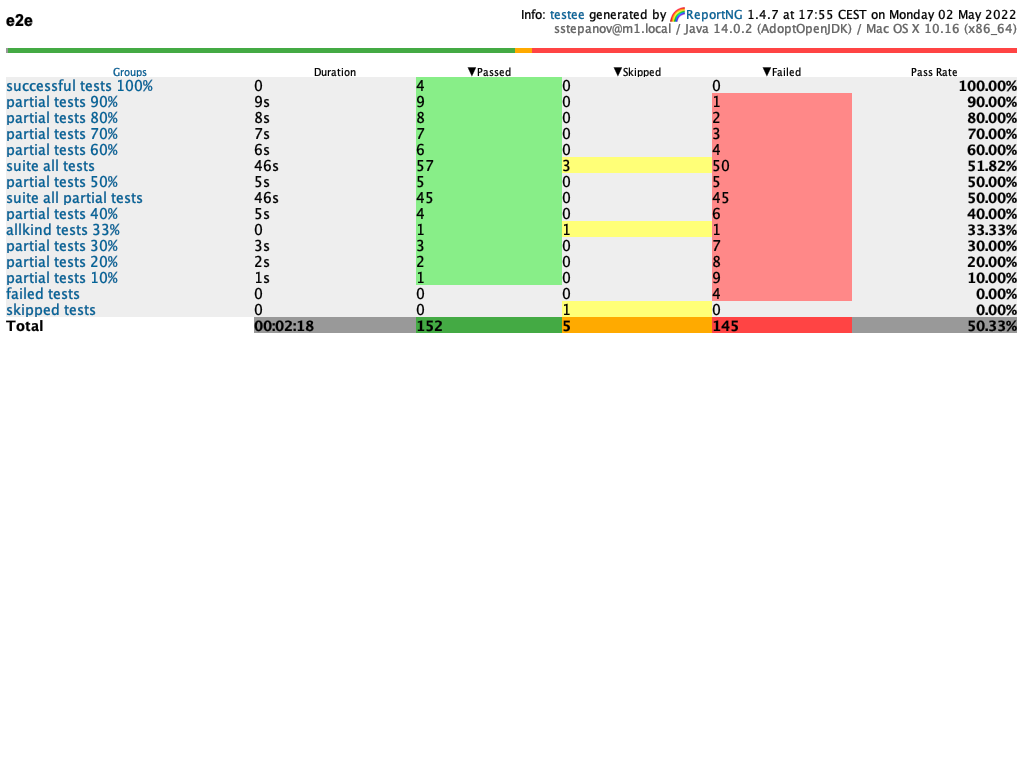
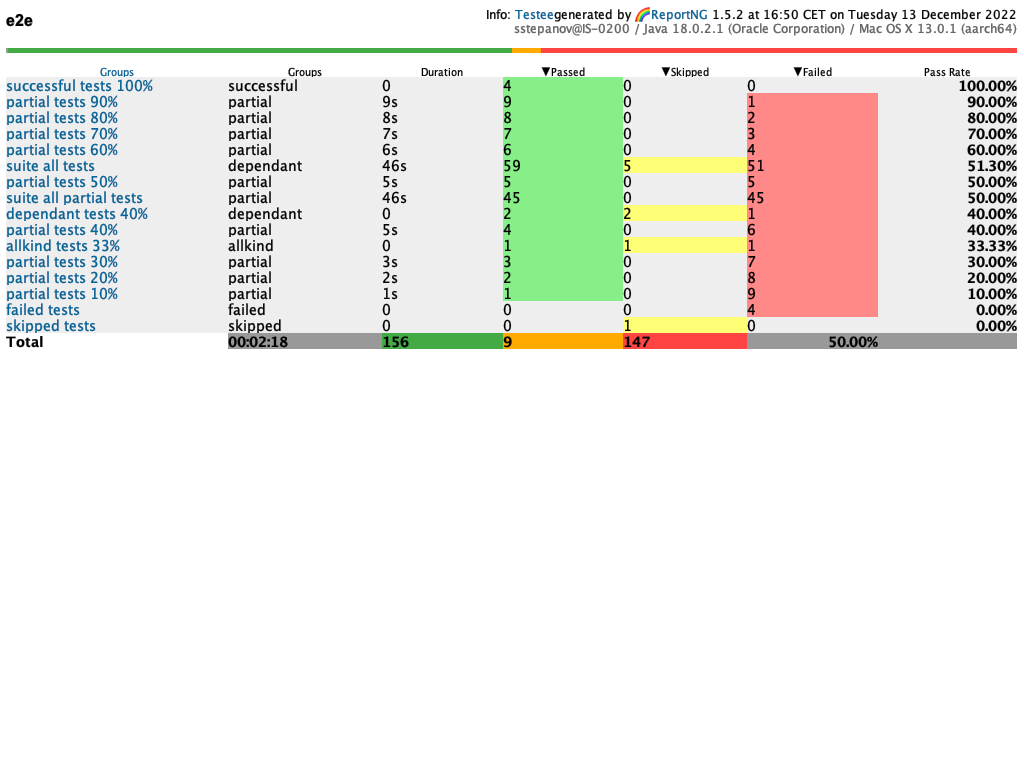
Changes in version 1.5.2 ------------------------ * Added group column on overview table * Kotlin 1.7.21

diff --git a/src/main/kotlin/testee/it/reportng/HTMLToBase64.kt b/src/main/kotlin/testee/it/reportng/HTMLToBase64.kt
@@ -135,7 +135,7 @@ object HTMLToBase64 {
         return styleSheet
     }
 
-    var HTML_EXAMPLE = """<html xmlns="http://www.w3.org/1999/xhtml" xml:lang="" lang="">
+    var HTML_EXAMPLE = """<html xmlns="http://www.w3.org/1999/xhtml" xml:lang="en" lang="en">
 <head>
     <title>e2e</title>
     <meta http-equiv="Content-Type" content="text/html;charset=utf-8"/>
@@ -147,16 +147,16 @@ object HTMLToBase64 {
 <table class="titleTable">
     <tr>
         <td class="h1">e2e</td>
-        <td id="meta">Info: <a href=https://github.com/hibissscus/testee target="_top">Testee</a> generated by &#127752;<a href="https://github.com/hibissscus/reportng" target="_top">ReportNG</a> 1.4.7 at 17:55 CEST on Monday 02 May 2022<br/><span id="systemInfo">sstepanov@m1.local&nbsp;/&nbsp;Java 14.0.2 (AdoptOpenJDK)&nbsp;/&nbsp;Mac OS X 10.16 (x86_64)</span></td>
+        <td id="meta">Info: <a href=https://github.com/hibissscus/testee target="_top">Testee</a>generated by &#127752;<a href="https://github.com/hibissscus/reportng" target="_top">ReportNG</a> 1.5.2 at 16:50 CET on Tuesday 13 December 2022<br/><span id="systemInfo">sstepanov@IS-0200&nbsp;/&nbsp;Java 18.0.2.1 (Oracle Corporation)&nbsp;/&nbsp;Mac OS X 13.0.1 (aarch64)</span></td>
     </tr>
 </table>
-<table class="progressTable" border="0" cellspacing="0" cellpadding="0" style="width:101.34%;">
+<table class="progressTable" border="0" cellspacing="0" cellpadding="0" style="width:101.30%;">
     <tbody>
     <tr class="progressLine" style="height: 3px">
         <td class="progressLine" style="width:0%;background-color:#999999;"></td>
-        <td class="progressLine" style="width:50.33%;background-color:#44aa44;"></td>
-        <td class="progressLine" style="width:1.66%;background-color:#ffaa00;"></td>
-        <td class="progressLine" style="width:48.01%;background-color:#ff4444;"></td>
+        <td class="progressLine" style="width:50.00%;background-color:#44aa44;"></td>
+        <td class="progressLine" style="width:2.88%;background-color:#ffaa00;"></td>
+        <td class="progressLine" style="width:47.12%;background-color:#ff4444;"></td>
     </tr>
     </tbody>
 </table>
@@ -164,6 +164,7 @@ object HTMLToBase64 {
     <tr class="columnHeadings">
         <th><a href="suite1_groups.html">Groups</a>
         </th>
+        <th>Groups</th>
         <th>Duration</th>
         <th class="pointer" onclick="toggleElements('only-passed', ''); toggle('toggle-only-passed')"><span id="toggle-only-passed" class="toggle">&#x25bc;</span>Passed
         </th>
@@ -175,6 +176,7 @@ object HTMLToBase64 {
     </tr>
     <tr class="test only-passed">
         <td class="test"><a href="suite1_test1_results.html">successful tests 100%</a></td>
+        <td>successful</td>
         <td class="duration">0</td>
         <td class="passed"><span class="number">4</span></td>
         <td class="zero"><span class="number">0</span></td>
@@ -183,6 +185,7 @@ object HTMLToBase64 {
     </tr>
     <tr class="test ">
         <td class="test"><a href="suite1_test2_results.html">partial tests 90%</a></td>
+        <td>partial</td>
         <td class="duration">9s</td>
         <td class="passed"><span class="number">9</span></td>
         <td class="zero"><span class="number">0</span></td>
@@ -191,6 +194,7 @@ object HTMLToBase64 {
     </tr>
     <tr class="test ">
         <td class="test"><a href="suite1_test3_results.html">partial tests 80%</a></td>
+        <td>partial</td>
         <td class="duration">8s</td>
         <td class="passed"><span class="number">8</span></td>
         <td class="zero"><span class="number">0</span></td>
@@ -199,6 +203,7 @@ object HTMLToBase64 {
     </tr>
     <tr class="test ">
         <td class="test"><a href="suite1_test4_results.html">partial tests 70%</a></td>
+        <td>partial</td>
         <td class="duration">7s</td>
         <td class="passed"><span class="number">7</span></td>
         <td class="zero"><span class="number">0</span></td>
@@ -207,6 +212,7 @@ object HTMLToBase64 {
     </tr>
     <tr class="test ">
         <td class="test"><a href="suite1_test5_results.html">partial tests 60%</a></td>
+        <td>partial</td>
         <td class="duration">6s</td>
         <td class="passed"><span class="number">6</span></td>
         <td class="zero"><span class="number">0</span></td>
@@ -215,14 +221,16 @@ object HTMLToBase64 {
     </tr>
     <tr class="test ">
         <td class="test"><a href="suite1_test6_results.html">suite all tests</a></td>
+        <td>dependant</td>
         <td class="duration">46s</td>
-        <td class="passed"><span class="number">57</span></td>
-        <td class="skipped"><span class="number">3</span></td>
-        <td class="failed"><span class="number">50</span></td>
-        <td class="passRate">51.82%</td>
+        <td class="passed"><span class="number">59</span></td>
+        <td class="skipped"><span class="number">5</span></td>
+        <td class="failed"><span class="number">51</span></td>
+        <td class="passRate">51.30%</td>
     </tr>
     <tr class="test ">
         <td class="test"><a href="suite1_test7_results.html">partial tests 50%</a></td>
+        <td>partial</td>
         <td class="duration">5s</td>
         <td class="passed"><span class="number">5</span></td>
         <td class="zero"><span class="number">0</span></td>
@@ -231,6 +239,7 @@ object HTMLToBase64 {
     </tr>
     <tr class="test ">
         <td class="test"><a href="suite1_test8_results.html">suite all partial tests</a></td>
+        <td>partial</td>
         <td class="duration">46s</td>
         <td class="passed"><span class="number">45</span></td>
         <td class="zero"><span class="number">0</span></td>
@@ -238,7 +247,17 @@ object HTMLToBase64 {
         <td class="passRate">50.00%</td>
     </tr>
     <tr class="test ">
-        <td class="test"><a href="suite1_test9_results.html">partial tests 40%</a></td>
+        <td class="test"><a href="suite1_test9_results.html">dependant tests 40%</a></td>
+        <td>dependant</td>
+        <td class="duration">0</td>
+        <td class="passed"><span class="number">2</span></td>
+        <td class="skipped"><span class="number">2</span></td>
+        <td class="failed"><span class="number">1</span></td>
+        <td class="passRate">40.00%</td>
+    </tr>
+    <tr class="test ">
+        <td class="test"><a href="suite1_test10_results.html">partial tests 40%</a></td>
+        <td>partial</td>
         <td class="duration">5s</td>
         <td class="passed"><span class="number">4</span></td>
         <td class="zero"><span class="number">0</span></td>
@@ -246,7 +265,8 @@ object HTMLToBase64 {
         <td class="passRate">40.00%</td>
     </tr>
     <tr class="test ">
-        <td class="test"><a href="suite1_test10_results.html">allkind tests 33%</a></td>
+        <td class="test"><a href="suite1_test11_results.html">allkind tests 33%</a></td>
+        <td>allkind</td>
         <td class="duration">0</td>
         <td class="passed"><span class="number">1</span></td>
         <td class="skipped"><span class="number">1</span></td>
@@ -254,7 +274,8 @@ object HTMLToBase64 {
         <td class="passRate">33.33%</td>
     </tr>
     <tr class="test ">
-        <td class="test"><a href="suite1_test11_results.html">partial tests 30%</a></td>
+        <td class="test"><a href="suite1_test12_results.html">partial tests 30%</a></td>
+        <td>partial</td>
         <td class="duration">3s</td>
         <td class="passed"><span class="number">3</span></td>
         <td class="zero"><span class="number">0</span></td>
@@ -262,7 +283,8 @@ object HTMLToBase64 {
         <td class="passRate">30.00%</td>
     </tr>
     <tr class="test ">
-        <td class="test"><a href="suite1_test12_results.html">partial tests 20%</a></td>
+        <td class="test"><a href="suite1_test13_results.html">partial tests 20%</a></td>
+        <td>partial</td>
         <td class="duration">2s</td>
         <td class="passed"><span class="number">2</span></td>
         <td class="zero"><span class="number">0</span></td>
@@ -270,7 +292,8 @@ object HTMLToBase64 {
         <td class="passRate">20.00%</td>
     </tr>
     <tr class="test ">
-        <td class="test"><a href="suite1_test13_results.html">partial tests 10%</a></td>
+        <td class="test"><a href="suite1_test14_results.html">partial tests 10%</a></td>
+        <td>partial</td>
         <td class="duration">1s</td>
         <td class="passed"><span class="number">1</span></td>
         <td class="zero"><span class="number">0</span></td>
@@ -278,7 +301,8 @@ object HTMLToBase64 {
         <td class="passRate">10.00%</td>
     </tr>
     <tr class="test only-failed">
-        <td class="test"><a href="suite1_test14_results.html">failed tests</a></td>
+        <td class="test"><a href="suite1_test15_results.html">failed tests</a></td>
+        <td>failed</td>
         <td class="duration">0</td>
         <td class="zero"><span class="number">0</span></td>
         <td class="zero"><span class="number">0</span></td>
@@ -286,7 +310,8 @@ object HTMLToBase64 {
         <td class="passRate">0.00%</td>
     </tr>
     <tr class="test only-skipped">
-        <td class="test"><a href="suite1_test15_results.html">skipped tests</a></td>
+        <td class="test"><a href="suite1_test16_results.html">skipped tests</a></td>
+        <td>skipped</td>
         <td class="duration">0</td>
         <td class="zero"><span class="number">0</span></td>
         <td class="skipped"><span class="number">1</span></td>
@@ -296,10 +321,10 @@ object HTMLToBase64 {
     <tr class="suite">
         <td colspan="1" class="totalLabel">Total</td>
         <td class="duration"><span class="number">00:02:18</span></td>
-        <td class="passed"><span class="number">152</span></td>
-        <td class="skipped"><span class="number">5</span></td>
-        <td class="failed"><span class="number">145</span></td>
-        <td class="passRate"><span class="suite">50.33%</span></td>
+        <td class="passed"><span class="number">156</span></td>
+        <td class="skipped"><span class="number">9</span></td>
+        <td class="failed"><span class="number">147</span></td>
+        <td class="passRate"><span class="suite">50.00%</span></td>
     </tr>
 </table>
 </body>

diff --git a/src/main/kotlin/testee/it/reportng/ReportNGUtils.kt b/src/main/kotlin/testee/it/reportng/ReportNGUtils.kt
@@ -80,6 +80,14 @@ class ReportNGUtils {
         return duration
     }
 
+
+    /**
+     * Return first group to which test belongs.
+     */
+    fun getIncludedGroups(context: ITestContext): String {
+        return context.allTestMethods.firstNotNullOf { it.groups.takeIf { gr -> gr.isNotEmpty() } }.firstOrNull().orEmpty()
+    }
+
     /**
      * Get formatted total duration for entire suite
      *
